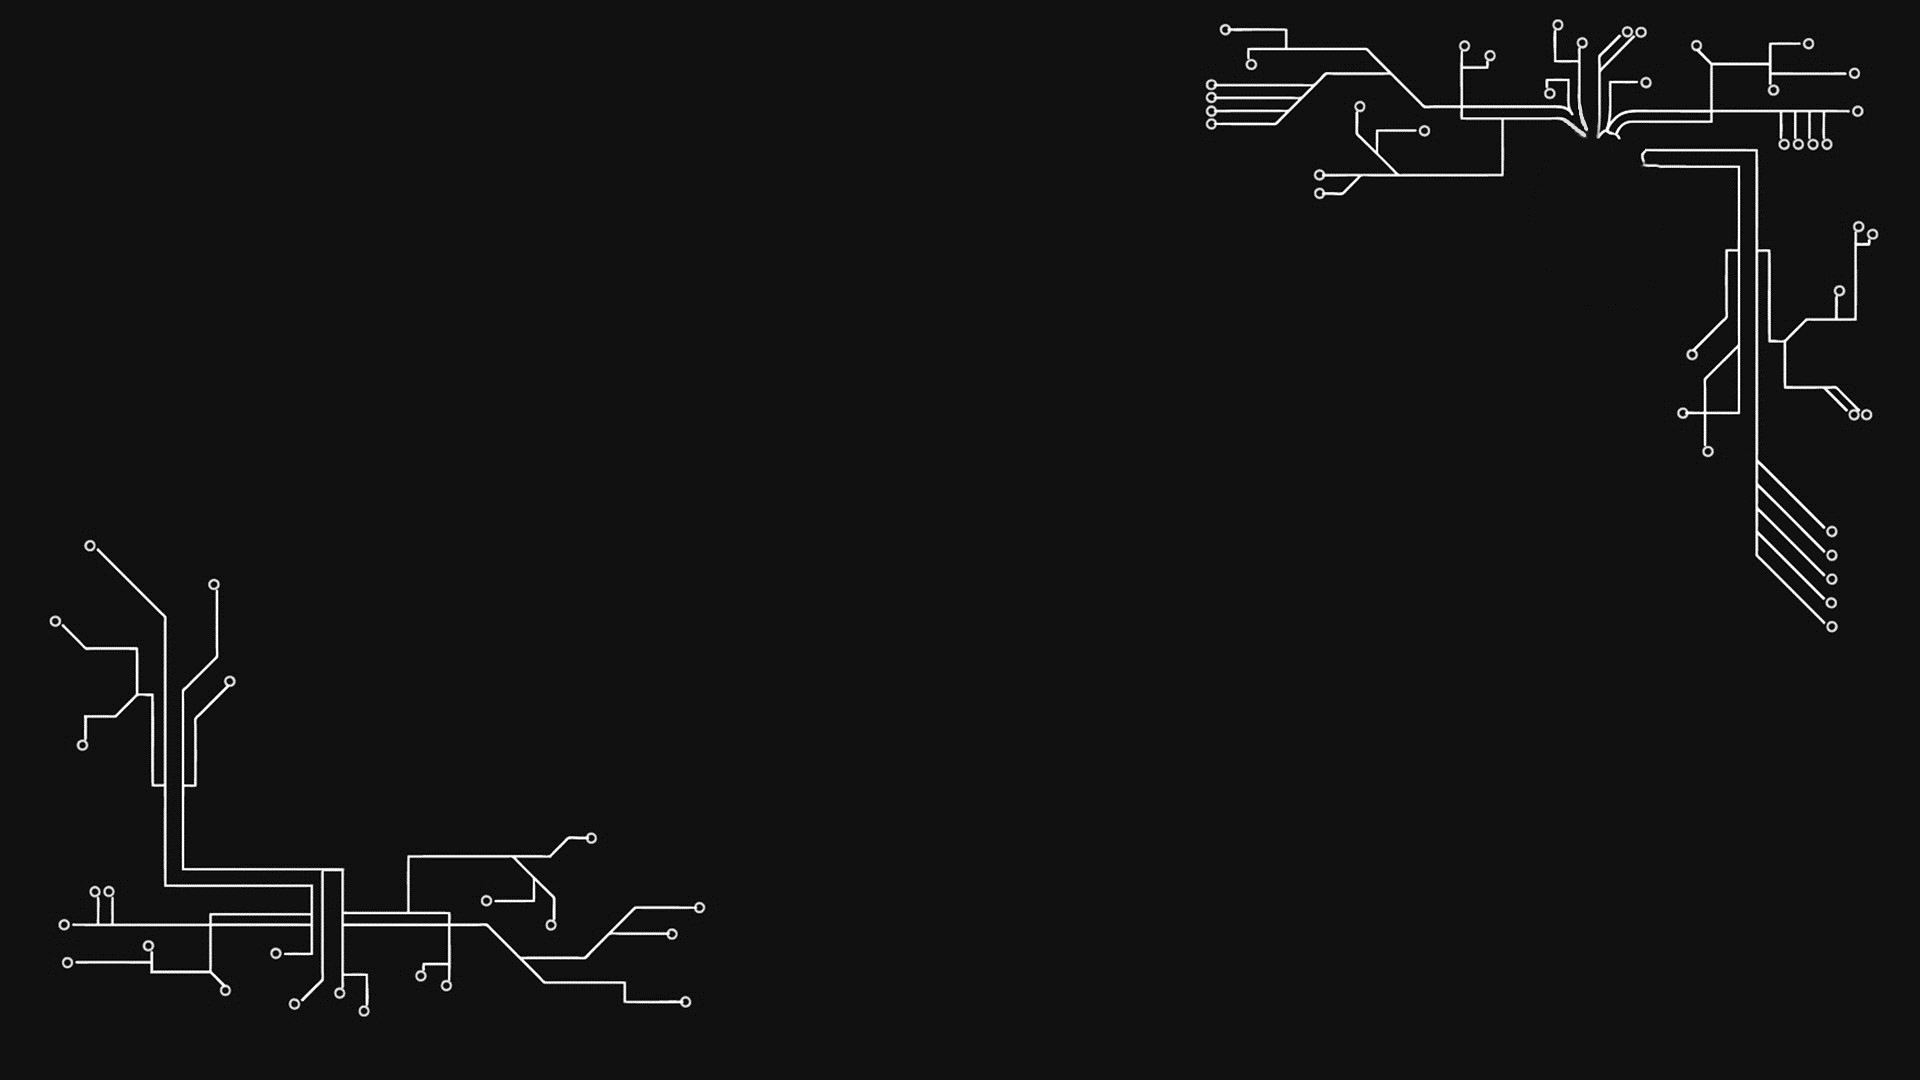
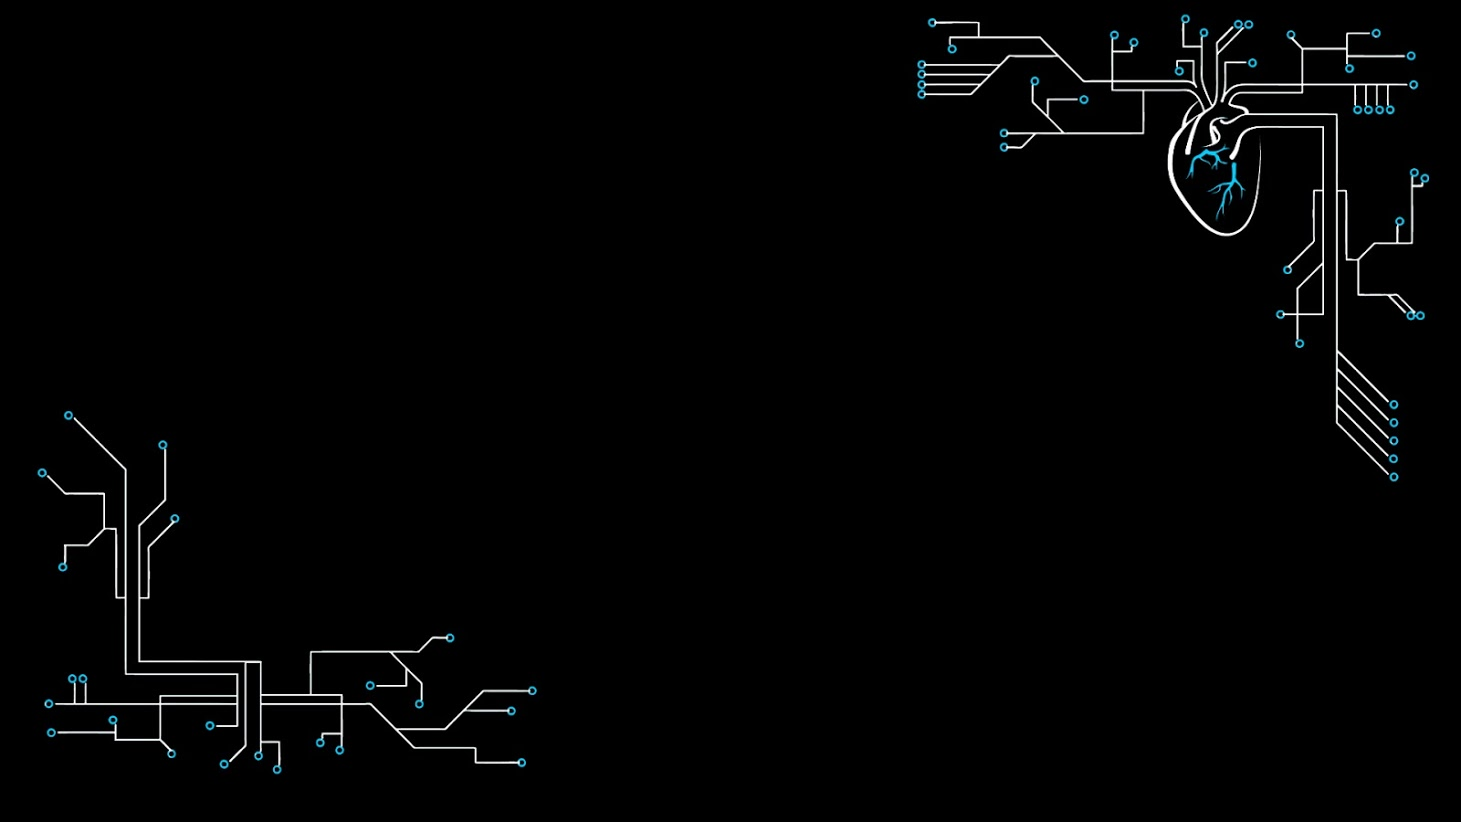
changed background img

diff --git a/assets/css/bcg.css b/assets/css/bcg.css
@@ -1,5 +1,5 @@
 body {
-    background: url('/assets/images/bcg_wall.jpg') no-repeat center center fixed;
+    background: url('/assets/images/background.png') no-repeat center center fixed;
     -webkit-background-size: cover;
     -moz-background-size: cover;
     -o-background-size: cover;
